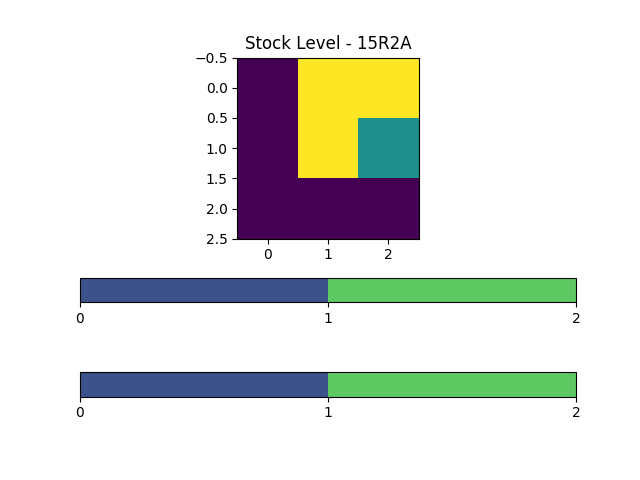
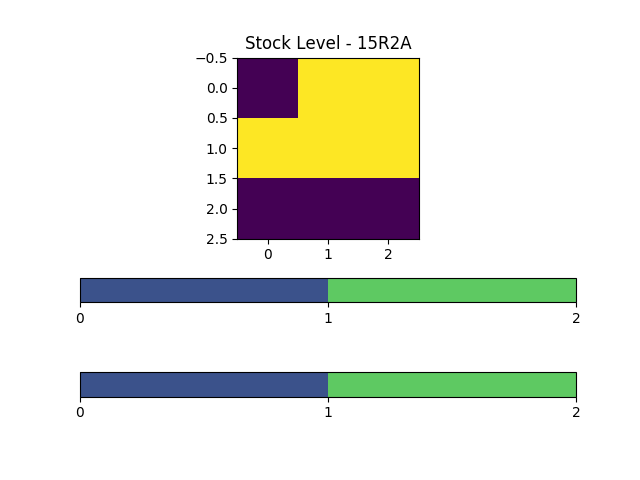
Made Product objects, dimensions for volume now dynamic

Changed region(s): [[0.5625, 0.2188, 0.6562, 0.375], [0.375, 0.2188, 0.4688, 0.375]]

diff --git a/Python/Main/main.py b/Python/Main/main.py
@@ -3,30 +3,29 @@ import Graphing.Heatmap as heatmap
 import Measurements.MeasureUS as measureUS
 import Objects.XYGrid as XYGridObject
 import Objects.shelf as ShelfObject
+import Objects.product as ProductObject
 import WebPage.API as test
 
-
+ProductList = ProductObject.makeProductGrid()
 XYGridList = XYGridObject.MakeXYGrid()
 ShelfList = ShelfObject.makeShelfGrid()
 
-
 for singleshelf in ShelfList:
-    measureUS.MeasureDistance(singleshelf.location, XYGridList)  
-      
-      
-    stockpercentages.UnitsToFill(singleshelf, XYGridList)
+    measureUS.MeasureDistance(singleshelf.location, XYGridList)        
+    stockpercentages.UnitsToFill(singleshelf, ProductList, XYGridList)
     print(singleshelf.location, "is", singleshelf.volumePercentFull*100, "% full and can fit", singleshelf.unitsOfSpace, "more units of X")
-
     heatmap.MakeHeatMap(singleshelf.height, XYGridList, singleshelf.location)
-
 
 print("XYGrid=")
 for XYGrid in XYGridList:
     print(XYGrid.shelflocation,",",XYGrid.idpos,",",XYGrid.xpos,",",XYGrid.ypos,",",XYGrid.distance)
+
 print("ShelfGrid=")
 for Shelf in ShelfList:
-     print(Shelf.location,",",Shelf.height,",",Shelf.width,",",Shelf.depth,",",Shelf.volumePercentFull,",", Shelf.areaFull,",",Shelf.unitsOfSpace)
+    print(Shelf.location,",",Shelf.height,",",Shelf.width,",",Shelf.depth,",",Shelf.volumePercentFull,",", Shelf.areaFull,",",Shelf.unitsOfSpace)
 
-  
+print("ProductList")
+for Product in ProductList:
+    print(Product.name, ",", Product.tpnb, ",",Product.height, ",",Product.width, ",",Product.depth, ",",Product.weight)
+
 test.startfunction()
-

diff --git a/Python/Calculations/stockPercentage.py b/Python/Calculations/stockPercentage.py
@@ -1,4 +1,4 @@
-productVolume = 21*12.5*8
+
 
 class StockPercentage:
     percentage = 0
@@ -23,7 +23,11 @@ def SingleEmptyFull(shelfHeight, measurementCM):
     elif (PercFull > 2/3):
         return 2   
     
-def UnitsToFill(singleshelf, XYGridList):
+def UnitsToFill(singleshelf, ProductList, XYGridList,):
+    for product in ProductList:
+        if product.tpnb == singleshelf.tpnb:
+            productVolume = product.height * product.width * product.depth
+    
     shelfHeight = singleshelf.height
     shelfLocation = singleshelf.location
     print("height=", shelfHeight, "loc=", shelfLocation)
@@ -33,9 +37,7 @@ def UnitsToFill(singleshelf, XYGridList):
     availablevolume = ShelfOccupiedVolume (singleshelf)
     # Calculate number of units to fill the space
     singleshelf.unitsOfSpace = int(availablevolume / productVolume) 
-
-        
- 
+    
 def ShelfAvgVolumePercentFull (shelfLocation, shelfHeight, XYGridList):
     averagePercentageFullSum = 0 
     for XYGrid in XYGridList:
@@ -49,7 +51,6 @@ def ShelfAvgVolumePercentFull (shelfLocation, shelfHeight, XYGridList):
 
 def ShelfOccupiedVolume (singleShelf):
     shelfVolume = singleShelf.height * singleShelf.width * singleShelf.depth
-    
     OccupiedVolume = singleShelf.volumePercentFull * shelfVolume
     print(singleShelf.location, "volume = ", shelfVolume, "volpercenfull=", singleShelf.volumePercentFull, "occupiedvolume=", OccupiedVolume)
     AvailableVolume = shelfVolume - OccupiedVolume

diff --git a/Python/Objects/product.py b/Python/Objects/product.py
@@ -1,21 +1,14 @@
-import Shelf
-
-class Product (object):
-    height = 0
-    width = 0
-    depth = 0
-    weight = 0
-    tpnb = ""
-    shelf = Shelf
-    
-    def __init__(self,height,width, depth, weight, tpnb, shelf):
+class Product (object): 
+    def __init__(self,name, tpnb, height, width, depth, weight):
+        self.name = name
+        self.tpnb = tpnb
         self.height = height
         self.width = width
         self.depth = depth
         self.weight = weight
-        self.tpnb = tpnb
-        self.shelf = shelf
 
-def makeProduct(height, width, depth, weight, tpnb, shelf): 
-    product = Product(height, width, depth, weight, tpnb, shelf)
-    return product
+def makeProductGrid(): 
+    MadeList = []
+    MadeList.append(Product("Quaker Oats", "062609056", 21.0, 13.0, 8.0, 0.293))
+    MadeList.append(Product("Kellogs Cornflakes", "050060399", 30, 23, 8, 0.450))
+    return MadeList

diff --git a/Python/Objects/shelf.py b/Python/Objects/shelf.py
@@ -1,16 +1,16 @@
 class Shelf(object):
-    def __init__(self,location, height,width, depth):
+    def __init__(self,location, height,width, depth, tpnb):
         self.location = location
         self.height = height
         self.width = width
         self.depth = depth
         self.volumePercentFull = 0
         self.areaFull = 0
+        self.tpnb = tpnb
         self.unitsOfSpace = 0
-        
 
 def makeShelfGrid(): 
     MadeList = []
-    MadeList.append(Shelf("14L8E", 30.0, 50.0, 20.0))
-    MadeList.append(Shelf("15R2A", 30.0, 25.0, 20.0))
+    MadeList.append(Shelf("14L8E", 30.0, 50.0, 20.0, "062609056"))
+    MadeList.append(Shelf("15R2A", 30.0, 50.0, 20.0, "050060399"))
     return MadeList

diff --git a/Python/test.py b/Python/test.py
@@ -1,14 +1,6 @@
-from flask import Flask, request
-from flask_restful import Resource, Api
-from json import dumps
+import Objects.product as product
 
-app = Flask(__name__)
-api = Api(app)
+test = product.makeProductGrid()
 
-class Departmental_Salary(Resource):
-    def get(self, department_name):
-        return department_name
- 
-api.add_resource(Departmental_Salary, '/dept/<string:department_name>')
-
-app.run()
+for x in test:
+    print(x.name, ",", x.tpnb, ",",x.height, ",",x.width, ",",x.depth, ",",x.weight)
